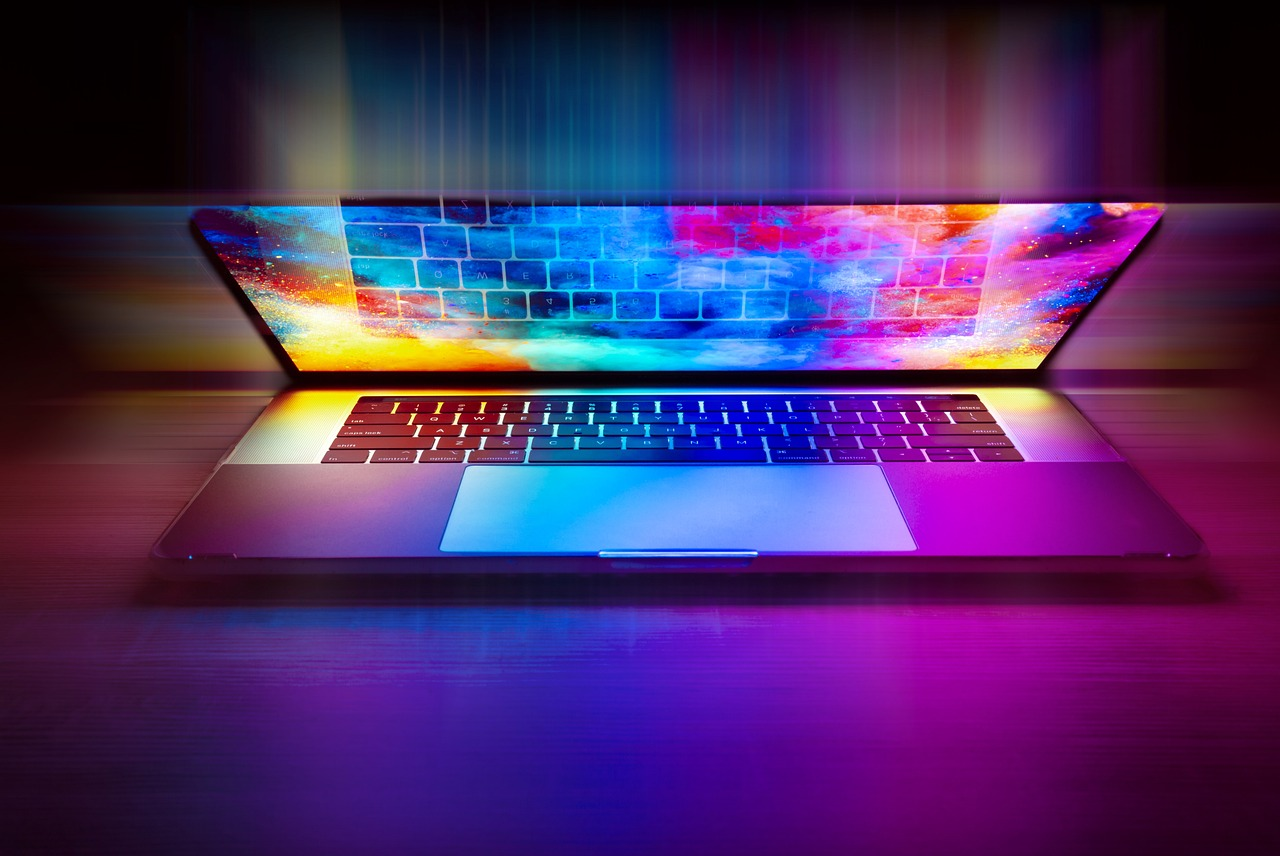
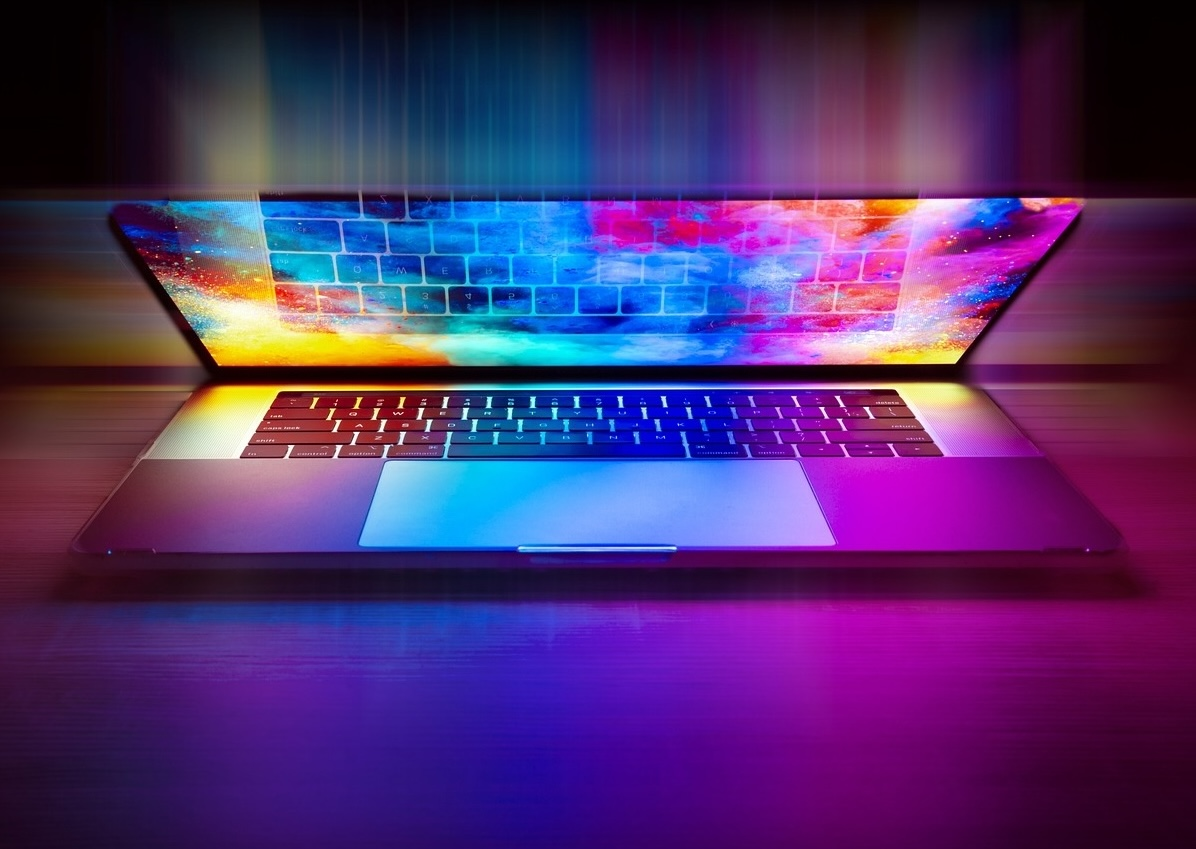
update banniere

diff --git a/src/components/login/views/Login.vue b/src/components/login/views/Login.vue
@@ -1,0 +1,182 @@
+<template>
+  <BaseTemplate>
+    <div class="bg-page w-100">
+      <div class="row d-flex align-items-center justify-content-center h-100">
+        <div class="form-container">
+          <p class="title">Login</p>
+          <form class="form">
+            <div class="input-group">
+              <label for="username">Username</label>
+              <input type="text" name="username" id="username" placeholder="">
+            </div>
+            <div class="input-group">
+              <label for="password">Password</label>
+              <input type="password" name="password" id="password" placeholder="">
+              <div class="forgot">
+                <a rel="noopener noreferrer" href="#">Forgot Password ?</a>
+              </div>
+            </div>
+            <button class="sign">Sign in</button>
+          </form>
+          <div class="social-message">
+            <div class="line"></div>
+            <p class="message">Login with social accounts</p>
+            <div class="line"></div>
+          </div>
+          <div class="social-icons">
+            <button aria-label="Log in with Google" class="icon">
+              <svg xmlns="http://www.w3.org/2000/svg" viewBox="0 0 32 32" class="w-5 h-5 fill-current">
+                <path d="M16.318 13.714v5.484h9.078c-0.37 2.354-2.745 6.901-9.078 6.901-5.458 0-9.917-4.521-9.917-10.099s4.458-10.099 9.917-10.099c3.109 0 5.193 1.318 6.38 2.464l4.339-4.182c-2.786-2.599-6.396-4.182-10.719-4.182-8.844 0-16 7.151-16 16s7.156 16 16 16c9.234 0 15.365-6.49 15.365-15.635 0-1.052-0.115-1.854-0.255-2.651z"></path>
+              </svg>
+            </button>
+            <button aria-label="Log in with Twitter" class="icon">
+              <svg xmlns="http://www.w3.org/2000/svg" viewBox="0 0 32 32" class="w-5 h-5 fill-current">
+                <path d="M31.937 6.093c-1.177 0.516-2.437 0.871-3.765 1.032 1.355-0.813 2.391-2.099 2.885-3.631-1.271 0.74-2.677 1.276-4.172 1.579-1.192-1.276-2.896-2.079-4.787-2.079-3.625 0-6.563 2.937-6.563 6.557 0 0.521 0.063 1.021 0.172 1.495-5.453-0.255-10.287-2.875-13.52-6.833-0.568 0.964-0.891 2.084-0.891 3.303 0 2.281 1.161 4.281 2.916 5.457-1.073-0.031-2.083-0.328-2.968-0.817v0.079c0 3.181 2.26 5.833 5.26 6.437-0.547 0.145-1.131 0.229-1.724 0.229-0.421 0-0.823-0.041-1.224-0.115 0.844 2.604 3.26 4.5 6.14 4.557-2.239 1.755-5.077 2.801-8.135 2.801-0.521 0-1.041-0.025-1.563-0.088 2.917 1.86 6.36 2.948 10.079 2.948 12.067 0 18.661-9.995 18.661-18.651 0-0.276 0-0.557-0.021-0.839 1.287-0.917 2.401-2.079 3.281-3.396z"></path>
+              </svg>
+            </button>
+            <button aria-label="Log in with GitHub" class="icon">
+              <svg xmlns="http://www.w3.org/2000/svg" viewBox="0 0 32 32" class="w-5 h-5 fill-current">
+                <path d="M16 0.396c-8.839 0-16 7.167-16 16 0 7.073 4.584 13.068 10.937 15.183 0.803 0.151 1.093-0.344 1.093-0.772 0-0.38-0.009-1.385-0.015-2.719-4.453 0.964-5.391-2.151-5.391-2.151-0.729-1.844-1.781-2.339-1.781-2.339-1.448-0.989 0.115-0.968 0.115-0.968 1.604 0.109 2.448 1.645 2.448 1.645 1.427 2.448 3.744 1.74 4.661 1.328 0.14-1.031 0.557-1.74 1.011-2.135-3.552-0.401-7.287-1.776-7.287-7.907 0-1.751 0.62-3.177 1.645-4.297-0.177-0.401-0.719-2.031 0.141-4.235 0 0 1.339-0.427 4.4 1.641 1.281-0.355 2.641-0.532 4-0.541 1.36 0.009 2.719 0.187 4 0.541 3.043-2.068 4.381-1.641 4.381-1.641 0.859 2.204 0.317 3.833 0.161 4.235 1.015 1.12 1.635 2.547 1.635 4.297 0 6.145-3.74 7.5-7.296 7.891 0.556 0.479 1.077 1.464 1.077 2.959 0 2.14-0.020 3.864-0.020 4.385 0 0.416 0.28 0.916 1.104 0.755 6.4-2.093 10.979-8.093 10.979-15.156 0-8.833-7.161-16-16-16z"></path>
+              </svg>
+            </button>
+          </div>
+        </div>
+      </div>
+    </div>
+  </BaseTemplate>
+</template>
+
+<script setup lang="ts">
+import BaseTemplate from "@/BaseTemplate.vue";
+</script>
+
+<style scoped lang="scss">
+.bg-page {
+  background: linear-gradient(0deg, rgba(12, 121, 158, 0.9864146342130602) 0%, rgba(2, 0, 36, 1) 100%);
+  height: calc(100vh - 110px);
+  width: 100%;
+}
+
+.form-container {
+  width: 420px;
+  //border-radius: 0.75rem;
+  border-radius: 6px;
+  background-color: rgba(17, 24, 39);
+  padding: 2rem;
+  color: rgba(243, 244, 246, 1);
+}
+
+.title {
+  text-align: center;
+  font-size: 1.5rem;
+  line-height: 2rem;
+  font-weight: 700;
+}
+
+.form {
+  margin-top: 1.5rem;
+}
+
+.input-group {
+  margin-top: 0.25rem;
+  font-size: 0.875rem;
+  line-height: 1.25rem;
+}
+
+.input-group label {
+  display: block;
+  color: rgba(156, 163, 175, 1);
+  margin-bottom: 4px;
+}
+
+.input-group input {
+  width: 100%;
+  border-radius: 0.375rem;
+  border: 1px solid rgba(55, 65, 81, 1);
+  outline: 0;
+  background-color: rgba(17, 24, 39, 1);
+  padding: 0.75rem 1rem;
+  color: rgba(243, 244, 246, 1);
+}
+
+.input-group input:focus {
+  border-color: rgba(167, 139, 250);
+}
+
+.forgot {
+  display: flex;
+  justify-content: flex-end;
+  font-size: 0.75rem;
+  line-height: 1rem;
+  color: rgba(156, 163, 175,1);
+  margin: 8px 0 14px 0;
+}
+
+.forgot a,.signup a {
+  color: rgba(243, 244, 246, 1);
+  text-decoration: none;
+  font-size: 14px;
+}
+
+.forgot a:hover, .signup a:hover {
+  text-decoration: underline rgba(167, 139, 250, 1);
+}
+
+.sign {
+  display: block;
+  width: 100%;
+  background-color: rgba(167, 139, 250, 1);
+  padding: 0.75rem;
+  text-align: center;
+  color: rgba(17, 24, 39, 1);
+  border: none;
+  border-radius: 0.375rem;
+  font-weight: 600;
+}
+
+.social-message {
+  display: flex;
+  align-items: center;
+  padding-top: 1rem;
+}
+
+.line {
+  height: 1px;
+  flex: 1 1 0%;
+  background-color: rgba(55, 65, 81, 1);
+}
+
+.social-message .message {
+  padding-left: 0.75rem;
+  padding-right: 0.75rem;
+  font-size: 0.875rem;
+  line-height: 1.25rem;
+  color: rgba(156, 163, 175, 1);
+}
+
+.social-icons {
+  display: flex;
+  justify-content: center;
+}
+
+.social-icons .icon {
+  border-radius: 0.125rem;
+  padding: 0.75rem;
+  border: none;
+  background-color: transparent;
+  margin-left: 8px;
+}
+
+.social-icons .icon svg {
+  height: 1.25rem;
+  width: 1.25rem;
+  fill: #fff;
+}
+
+.signup {
+  text-align: center;
+  font-size: 0.75rem;
+  line-height: 1rem;
+  color: rgba(156, 163, 175, 1);
+}
+</style>

diff --git a/src/features/portfolio/home/views/Experience.vue b/src/features/portfolio/home/views/Experience.vue
@@ -1,10 +1,11 @@
 <template>
   <BaseTemplate>
     <div class="home">
-      <div class="d-flex align-items-center justify-content-center">
+      <div class="d-flex align-items-center justify-content-center ">
+        <!-- Image bannière -->
         <img src="@/assets/images/laptop-5673901_1280.jpg" class="w-100 h-100 position-relative">
-        <div class="position-absolute dev-web">
 
+        <div class="position-absolute dev-web">
           <div class="d-flex flex-column align-items-center">
             <div class="txt" id="txt">
               <b>S</b><b>E</b><b>B</b><b>A</b><b>S</b><b>T</b><b>I</b><b>E</b><b>N</b>
@@ -46,7 +47,7 @@
               </div>
               <div class="card-back">
                 <h5 class="text-start mb-3 w-100"> Objet : Demande de stage (Madame, Monsieur),</h5>
-                <p>Actuellement à la fin de mon parcours étudiant, Je suis disponible afin de suivre un stage en entreprise. Ce stage pourrait me permettre de parfaire ma formation théorique par une expérience de terrain. Passionné depuis de nombreuses années, j'ai pris la décision de me reconvertir dans le domaine du web.</p>
+                <p>Actuellement à la fin de mon parcours étudiant, Je suis disponible afin de suivre un stage. Ce stage pourrait me permettre de parfaire ma formation théorique par une expérience de terrain. Passionné depuis de nombreuses années, j'ai pris la décision de me reconvertir dans le domaine du web.</p>
                 <p>Rigoureux, dynamique, doté du sens des responsabilités et ouvert aux autres, je n'ai aucune crainte sur ma capacité à m'adapter rapidement à votre entreprise et au travail en équipe. Je serais par ailleurs ravi de pouvoir contribuer au développement de votre activité en y apportant un regard neuf et constructif.</p>
                 <p> Je me tiens à votre disposition pour toute demande d'informations supplémentaires.</p>
                 <p>Dans l'attente de vous lire, Je vous prie d'agréer, (Madame, Monsieur), l'expression de mes sentiments les meilleurs.</p>

diff --git a/src/components/header/views/Header.vue b/src/components/header/views/Header.vue
@@ -7,7 +7,11 @@
             Expérience
           </router-link>
         </li>
-        <li class="me-4">Projets</li>
+        <li class="me-4">
+          <router-link :to="{name: 'project'}" class="link">
+            Projets
+          </router-link>
+        </li>
         <li class="me-4">Technologies</li>
         <li>
           <router-link :to="{name: 'formation'}" class="link">
@@ -29,10 +33,15 @@
             <font-awesome-icon icon="fa-brands fa-linkedin-in" class="icon" />
           </a>
         </li>
-        <li>
+        <li class="me-3">
           <a href="https://github.com/sebastien358">
             <font-awesome-icon icon="fa-brands fa-github" class="icon" />
           </a>
+        </li>
+        <li>
+          <router-link :to="{name: 'login'}">
+            <font-awesome-icon icon="fa-solid fa-right-to-bracket" class="text-success icon" />
+          </router-link>
         </li>
       </ul>
     </nav>
@@ -40,7 +49,8 @@
     <nav class="d-block d-lg-none">
       <font-awesome-icon icon="fa-solid fa-bars" class="icon-mobile" />
       <ul class="list-inline m-0 d-flex align-items-center menu-mobile">
-        <li></li>
+        <li>
+        </li>
       </ul>
     </nav>
   </header>
@@ -62,17 +72,16 @@ header {
       font-size: 22px;
       color: var(--color-light);
       transition: all 250ms ease;
-      text-decoration: none;
       &:hover {
         color: var(--color-dark);
       }
     }
     .link {
+      text-decoration: none;
       cursor: pointer;
       font-size: 22px;
       color: var(--color-light);
       transition: all 250ms ease;
-      text-decoration: none;
       &:hover {
         color: var(--color-dark);
       }
@@ -83,7 +92,6 @@ header {
 .icon {
   font-size: 24px;
   color: var(--color-light);
-  //transition: all 250ms ease;
   &:hover {
     color: var(--color-dark);
   }
@@ -92,9 +100,5 @@ header {
 .icon-mobile {
   font-size: 27px;
   color: var(--color-light);
-}
-
-a.router-link-active {
-  text-decoration: underline;
 }
 </style>

diff --git a/src/router/index.ts b/src/router/index.ts
@@ -1,14 +1,19 @@
 import {createRouter, createWebHistory} from "vue-router";
 import Cv from "@/features/portfolio/cv/cv/views/Cv.vue";
 import Experience from "@/features/portfolio/home/views/Experience.vue";
-import Studies from "@/features/portfolio/studies/views/Formation.vue";
+import Project from "@/features/portfolio/project/views/Project.vue";
+import Formation from "@/features/portfolio/formation/views/Formation.vue";
+import Login from "@/components/login/views/Login.vue";
 
 export const router = createRouter({
     history: createWebHistory(),
     routes: [
         {path: '/', redirect: '/experience'},
         {path: '/experience', name: 'experience', component: Experience},
+        {path: '/project', name: 'project', component: Project},
         {path: '/cv', name: 'cv', component: Cv},
-        {path: '/formation', name: 'formation', component: Studies}
+        {path: '/formation', name: 'formation', component: Formation},
+        {path: '/login', name: 'login', component: Login},
+
     ]
 })

diff --git a/src/main.ts b/src/main.ts
@@ -10,7 +10,7 @@ import { library } from '@fortawesome/fontawesome-svg-core'
 
 /* import font awesome icon component */
 import { FontAwesomeIcon } from '@fortawesome/vue-fontawesome'
-import {faBars} from "@fortawesome/free-solid-svg-icons";
+import {faBars, faRightToBracket} from "@fortawesome/free-solid-svg-icons";
 import {
     faCss3Alt,
     faGithub,
@@ -18,11 +18,11 @@ import {
     faLinkedinIn,
     faPhp,
     faSymfony,
-    faVuejs
+    faVuejs,
 } from "@fortawesome/free-brands-svg-icons";
 
 /* add icons to the library */
-library.add( faBars, faLinkedinIn, faGithub, faHtml5, faCss3Alt, faSymfony, faVuejs, faPhp)
+library.add( faBars, faLinkedinIn, faGithub, faHtml5, faCss3Alt, faSymfony, faVuejs, faPhp, faRightToBracket)
 
 const app = createApp(App)
 

diff --git a/src/features/portfolio/formation/views/Formation.vue b/src/features/portfolio/formation/views/Formation.vue
@@ -8,7 +8,8 @@
             <div class="card-inner">
               <div class="card-front">
                 <h6 class="card-title mb-3">2023-2024 (1 an)</h6>
-                <h3 class="fs-2">Développeur Full-Stack</h3>
+                <h1 class="fs-2 mb-3">Titre profesionnel</h1>
+                <h3 class="fs-4">Développeur web</h3>
                 <div class="d-flex flex-wrap justify-content-center mt-4">
                   <img src="@/assets/images/studi.jpg" height="120" width="120">
                 </div>

diff --git a/src/features/portfolio/project/views/Project.vue b/src/features/portfolio/project/views/Project.vue
@@ -1,0 +1,22 @@
+<template>
+  <BaseTemplate>
+    <div class="bg-page">
+      <p>Project</p>
+    </div>
+  </BaseTemplate>
+</template>
+
+<script setup lang="ts">
+import BaseTemplate from "@/BaseTemplate.vue";
+</script>
+
+<style scoped lang="scss">
+.bg-page {
+  background: linear-gradient(0deg, rgba(12, 121, 158, 0.9864146342130602) 0%, rgba(2, 0, 36, 1) 100%);
+  height: calc(100vh - 110px);
+  p {
+    color: white;
+    font-size: 20px;
+  }
+}
+</style>

diff --git a/src/assets/css/base.css b/src/assets/css/base.css
@@ -20,3 +20,19 @@
     --min-marge: 10px;
     --width-page: 1800px;
 }
+
+body {
+    font-family: "Barlow", sans-serif;
+}
+
+a {
+    text-decoration: none;
+}
+
+ul {
+    text-decoration: none;
+}
+
+a.router-link-active {
+    text-decoration: underline;
+}

diff --git a/src/assets/css/main.css b/src/assets/css/main.css
@@ -1,3 +1,5 @@
 @import 'base.css';
 
+@import url('https://fonts.googleapis.com/css2?family=Barlow:wght@100;200;300;400;500;600;700;800;900&display=swap');
+
 @import 'bootstrap/dist/css/bootstrap.min.css';
